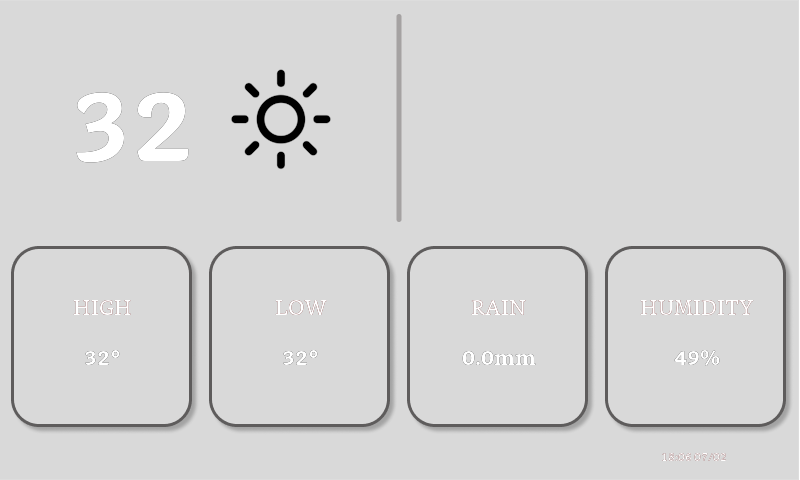
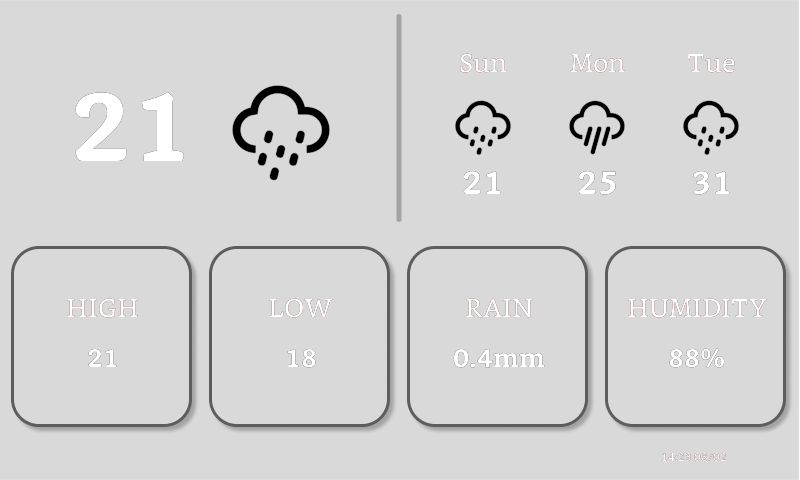
Added forecast data. Added new forecast class to handle forecast data. High and Low now pull current day's high and low temps.

diff --git a/src/display/renderer.py b/src/display/renderer.py
@@ -2,6 +2,7 @@ import PIL
 import logging
 
 from PIL import Image, ImageDraw, ImageFont
+from datetime import datetime
 
 logger = logging.getLogger('inkFrame')
 
@@ -61,6 +62,9 @@ LAYOUT_CONFIGS = {
 }
 
 def get_icon(condition_text):
+    if not condition_text:
+        return None
+    key = condition_text.strip()
     lookup = {
         'Sunny': 'sunny.png',
         'Partly Cloudy': 'partly_cloudy.png',
@@ -111,15 +115,13 @@ def get_icon(condition_text):
         'Patchy light snow in area with thunder': 'storm.png',
         'Moderate or heavy snow in area with thunder': 'storm.png',
     }
-
-    try:
-        value = lookup[condition_text]
-        icon = f'assets/{value}'
-        logger.debug(f'weather icon selected {value}.')
-        return icon
-    except KeyError:
-        logger.warning(f"KeyError: Key '{condition_text}' was not found.")
+    value = lookup.get(key)
+    if not value:
+        logger.warning(f"Icon lookup missing for condition '{key}'")
         return None
+    icon = f'assets/{value}'
+    logger.debug(f'weather icon selected {value} for condition "{key}".')
+    return icon
 
 def _calculate_font_sizes(box_height, box_type="value"):
     """
@@ -139,8 +141,8 @@ def _calculate_font_sizes(box_height, box_type="value"):
         # Main value in box - 35% of box height
         return int(box_height * 0.35)
     elif box_type == "label":
-        # Small label text - 12% of box height
-        return int(box_height * 0.12)
+        # Small label text - 15% of box height
+        return int(box_height * 0.15)
     elif box_type == "tiny":
         # Very small text (timestamps, etc) - 40% of box height
         return int(box_height * 0.40)
@@ -244,6 +246,7 @@ def render_weather(weather_data, config=None):
         font_box_value = _load_font(_calculate_font_sizes(layout['high_box']['height'], "value"), bold=True)
         font_box_label = _load_font(_calculate_font_sizes(layout['high_box']['height'], "label"), bold=False)
         font_updated = _load_font(_calculate_font_sizes(layout['updated_box']['height'], "tiny"), bold=False)
+        font_forecast_temp = _load_font(_calculate_font_sizes(layout['forecast_box']['height'], "label"), bold=True)
 
         today_center = layout['today_box']['center']
         high_center = layout['high_box']['center']
@@ -251,9 +254,10 @@ def render_weather(weather_data, config=None):
         rain_center = layout['rain_box']['center']
         humidity_center = layout['humidity_box']['center']
         updated_center = layout['updated_box']['center']
+        forecast_box = layout['forecast_box']
 
         # --- DRAWING TODAY PANEL (Top-Left) ---
-        temp = f"{int(getattr(weather_data, 'temp', 0))}"
+        temp = f"{int(getattr(weather_data.current_weather, 'temp', 0))}"
 
         # Position temp on LEFT side, icon on RIGHT side of today box
         temp_x = today_center[0] - 70  # Shift temp left
@@ -263,7 +267,7 @@ def render_weather(weather_data, config=None):
         draw.text((temp_x, today_center[1]), temp, fill=0, font=font_today_temp, anchor="mm")
 
         # Get and paste icon (right side, bigger)
-        icon_path = get_icon(getattr(weather_data, 'condition'))
+        icon_path = get_icon(getattr(weather_data.current_weather, 'condition'))
         if icon_path:
             icon = Image.open(icon_path).resize((140, 140))  # Bigger icon
             icon_x = int(icon_x_center - 70)  # Center the 140px icon
@@ -276,27 +280,83 @@ def render_weather(weather_data, config=None):
 
         # High temp
         draw.text((high_center[0], high_center[1] - 30), "HIGH", fill=80, font=font_box_label, anchor="mm")
-        draw.text((high_center[0], high_center[1] + 20), f"{int(getattr(weather_data, 'temp', 0))}°", fill=0, font=font_box_value_small, anchor="mm")
+        draw.text((high_center[0], high_center[1] + 20), f"{int(getattr(weather_data.current_weather, 'temp_max', 0))}", fill=0, font=font_box_value_small, anchor="mm")
 
         # Low temp
         draw.text((low_center[0], low_center[1] - 30), "LOW", fill=80, font=font_box_label, anchor="mm")
-        draw.text((low_center[0], low_center[1] + 20), f"{int(getattr(weather_data, 'temp', 0))}°", fill=0, font=font_box_value_small, anchor="mm")
+        draw.text((low_center[0], low_center[1] + 20), f"{int(getattr(weather_data.current_weather, 'temp_min', 0))}", fill=0, font=font_box_value_small, anchor="mm")
 
         # Rain
         draw.text((rain_center[0], rain_center[1] - 30), "RAIN", fill=80, font=font_box_label, anchor="mm")
-        draw.text((rain_center[0], rain_center[1] + 20), f"{getattr(weather_data, 'precip', 0)}mm", fill=0, font=font_box_value_small, anchor="mm")
+        draw.text((rain_center[0], rain_center[1] + 20), f"{getattr(weather_data.current_weather, 'precip', 0)}mm", fill=0, font=font_box_value_small, anchor="mm")
 
         # Humidity
         draw.text((humidity_center[0], humidity_center[1] - 30), "HUMIDITY", fill=80, font=font_box_label, anchor="mm")
-        draw.text((humidity_center[0], humidity_center[1] + 20), f"{getattr(weather_data, 'humidity', 0)}%", fill=0, font=font_box_value_small, anchor="mm")
+        draw.text((humidity_center[0], humidity_center[1] + 20), f"{getattr(weather_data.current_weather, 'humidity', 0)}%", fill=0, font=font_box_value_small, anchor="mm")
 
         # Updated timestamp - read from refreshed.txt file
-        from datetime import datetime
         # Use current time as the updated timestamp
         last_refresh = datetime.now()
         timestamp_text = last_refresh.strftime("%H:%M %d/%m")
         
         draw.text(updated_center, timestamp_text, fill=80, font=font_updated, anchor="mm")
+        
+        # --- DRAWING THREE-DAY FORECAST (Top-Right) ---
+        forecast_days = getattr(weather_data, 'forecast_days', [])
+        
+        if forecast_days:
+            # Calculate column positions with padding
+            forecast_box_x = forecast_box['x']
+            forecast_box_y = forecast_box['y']
+            forecast_box_width = forecast_box['width']
+            forecast_box_height = forecast_box['height']
+            
+            # Padding between columns
+            padding = 15
+            usable_width = forecast_box_width - (padding * 2)  # Left and right padding
+            col_width = usable_width / 3
+            
+            # Column x-centers
+            col_x_positions = [
+                forecast_box_x + padding + (col_width / 2),
+                forecast_box_x + padding + (col_width / 2) + col_width,
+                forecast_box_x + padding + (col_width / 2) + (col_width * 2)
+            ]
+            
+            # Icon size (smaller than today's)
+            icon_size = 80
+            
+            # Y positions for icon and temp within the forecast box
+            icon_y = forecast_box_y + 70
+            temp_y = icon_y + icon_size + 20
+            
+            for i, forecast_day in enumerate(forecast_days[:3]):  # Limit to 3 days
+                col_x = col_x_positions[i]
+                
+                # Day name (e.g. Tue, Wed) above the icon
+                day_name = ''
+                date_str = getattr(forecast_day, 'date', None)
+                if date_str:
+                    try:
+                        day_name = datetime.strptime(date_str, '%Y-%m-%d').strftime('%a')
+                    except Exception:
+                        day_name = ''
+                if day_name:
+                    draw.text((col_x, icon_y - 20), day_name, fill=80, font=font_box_label, anchor="mm")
+                
+                # Draw icon
+                icon_path = get_icon(getattr(forecast_day, 'condition', ''))
+                if icon_path:
+                    try:
+                        icon = Image.open(icon_path).resize((icon_size, icon_size))
+                        icon_x = int(col_x - (icon_size / 2))
+                        img.paste(icon, (icon_x, icon_y), icon)
+                    except Exception as e:
+                        logger.warning(f"Could not load forecast icon for day {i+1}: {e}")
+                
+                # Draw temperature
+                forecast_temp = f"{int(getattr(forecast_day, 'temp_max', 0))}"
+                draw.text((col_x, temp_y), forecast_temp, fill=0, font=font_forecast_temp, anchor="mm")
         
         logger.debug('Display rendered (new layout).')
         return img

diff --git a/src/weather/models.py b/src/weather/models.py
@@ -1,5 +1,5 @@
 class WeatherData:
-    def __init__(self, location, temp, text, icon, wind_kph, humidity, uv, feelslike_c, precip_mm, vis_km):
+    def __init__(self, location, temp, text, icon, wind_kph, humidity, uv, feelslike_c, precip_mm, vis_km, temp_max=None, temp_min=None):
         self.location = location
         self.temp = temp
         self.condition = text
@@ -10,6 +10,8 @@ class WeatherData:
         self.feelslike = feelslike_c
         self.precip = precip_mm
         self.vis = vis_km
+        self.temp_max = temp_max
+        self.temp_min = temp_min
 
     @classmethod
     def from_json(cls, data):
@@ -18,6 +20,8 @@ class WeatherData:
 
         location = data.get('location') or {}
         current = data.get('current') or {}
+        forecast = data.get('forecast') or {}
+        forecast_day_list = forecast.get('forecastday', [])
 
         location = location.get('name') or data.get('name')
         temp = current.get('temp_c') or current.get('temp_c') or data.get('temp_c')
@@ -30,5 +34,79 @@ class WeatherData:
         precip_mm = current.get('precip_mm')
         feelslike_c = current.get('feelslike_c')
         vis_km = current.get('vis_km')
+        
+        # Get today's high and low from forecast (first day)
+        temp_max = None
+        temp_min = None
+        if forecast_day_list:
+            today_forecast = forecast_day_list[0].get('day') or {}
+            temp_max = today_forecast.get('maxtemp_c')
+            temp_min = today_forecast.get('mintemp_c')
 
-        return cls(location=location, temp=temp, text=text, icon=icon, wind_kph=wind_kph, humidity=humidity, uv=uv, precip_mm=precip_mm, feelslike_c=feelslike_c, vis_km=vis_km)
+        return cls(location=location, temp=temp, text=text, icon=icon, wind_kph=wind_kph, humidity=humidity, uv=uv, precip_mm=precip_mm, feelslike_c=feelslike_c, vis_km=vis_km, temp_max=temp_max, temp_min=temp_min)
+
+
+class ForecastDay:
+    def __init__(self, date, temp_max, temp_min, condition, icon, chance_of_rain=0, avg_humidity=0):
+        self.date = date
+        self.temp_max = temp_max
+        self.temp_min = temp_min
+        self.condition = condition
+        self.icon = icon
+        self.chance_of_rain = chance_of_rain
+        self.avg_humidity = avg_humidity
+
+    @classmethod
+    def from_json(cls, forecast_day):
+        if not isinstance(forecast_day, dict):
+            return None
+
+        date = forecast_day.get('date')
+        day_data = forecast_day.get('day') or {}
+
+        temp_max = day_data.get('maxtemp_c')
+        temp_min = day_data.get('mintemp_c')
+        condition_node = day_data.get('condition') or {}
+        # strip whitespace to avoid mismatches like "Partly Cloudy "
+        condition = (condition_node.get('text') or '').strip()
+        icon = condition_node.get('icon') or None
+        chance_of_rain = day_data.get('daily_chance_of_rain', 0)
+        avg_humidity = day_data.get('avghumidity', 0)
+
+        return cls(date=date, temp_max=temp_max, temp_min=temp_min, condition=condition, 
+                   icon=icon, chance_of_rain=chance_of_rain, avg_humidity=avg_humidity)
+
+
+class ForecastData:
+    def __init__(self, location, current_weather, forecast_days):
+        self.location = location
+        self.current_weather = current_weather
+        self.forecast_days = forecast_days  # List of ForecastDay objects
+
+    @classmethod
+    def from_json(cls, data):
+        if not isinstance(data, dict):
+            return None
+
+        # Parse current weather
+        location_data = data.get('location') or {}
+        location = location_data.get('name')
+        current_weather = WeatherData.from_json(data)
+
+        # Parse forecast - skip day 0 (today) and use days 1-3 (tomorrow through 2 days out)
+        forecast = data.get('forecast', {}) or {}
+        forecast_day_list = forecast.get('forecastday', []) or []
+
+        # Prefer next 3 days (skip today) if API returned 4+ days; otherwise fall back to first 3 days
+        if len(forecast_day_list) >= 4:
+            source_days = forecast_day_list[1:4]  # skip today (0), use 1..3
+        else:
+            source_days = forecast_day_list[0:3]  # fallback for 3-day export
+
+        forecast_days = []
+        for day in source_days:
+            fd = ForecastDay.from_json(day)
+            if fd:
+                forecast_days.append(fd)
+
+        return cls(location=location, current_weather=current_weather, forecast_days=forecast_days)

diff --git a/src/weather/api_client.py b/src/weather/api_client.py
@@ -1,7 +1,7 @@
 import requests
 import logging
 
-from weather.models import WeatherData
+from weather.models import ForecastData, ForecastDay
 
 logger = logging.getLogger('inkFrame')
 
@@ -9,10 +9,10 @@ def get_weather_data(config, api_key):
     location = config['weather']['location']
     logger.info(f'Fetching weather for {location}')
     try:
-        data = requests.get(f'http://api.weatherapi.com/v1/current.json?key={api_key}&q={location}&aqi=no', timeout=10)
+        data = requests.get(f'http://api.weatherapi.com/v1//forecast.json?days=4&key={api_key}&q={location}&aqi=no', timeout=10)
         logger.debug(f'API response status: {data.status_code}')
         json_data = data.json()
-        weather_obj = WeatherData.from_json(json_data)
+        weather_obj = ForecastData.from_json(json_data)
         logger.debug(f"Weather data fetched for {location}")
         return weather_obj
     except requests.exceptions.RequestException as error:
